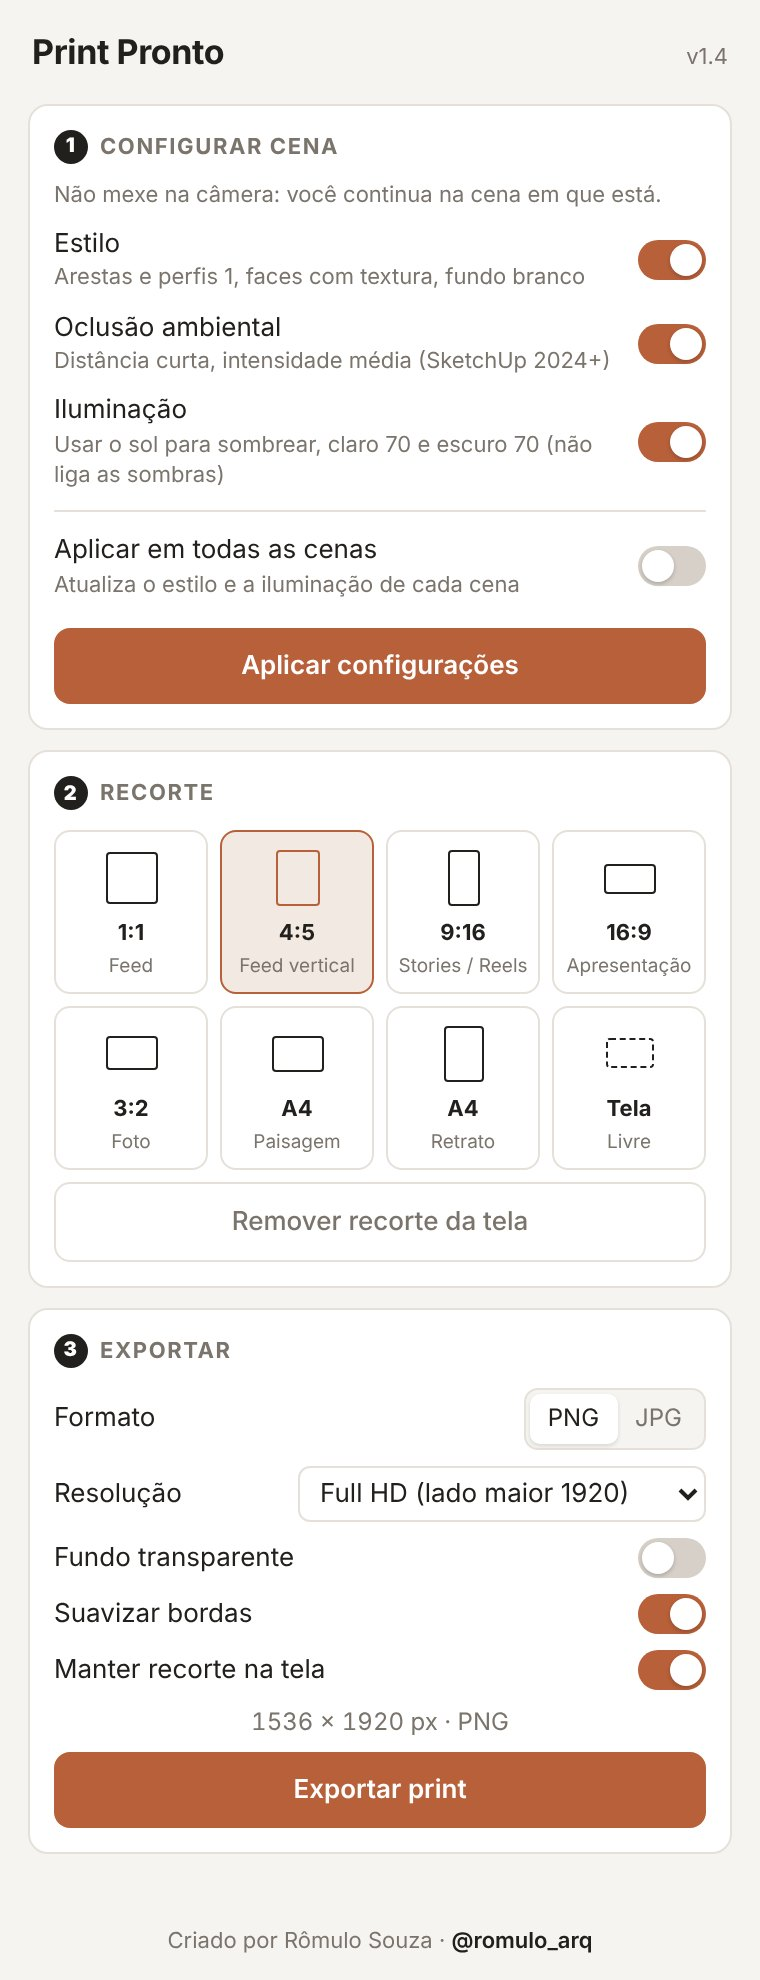
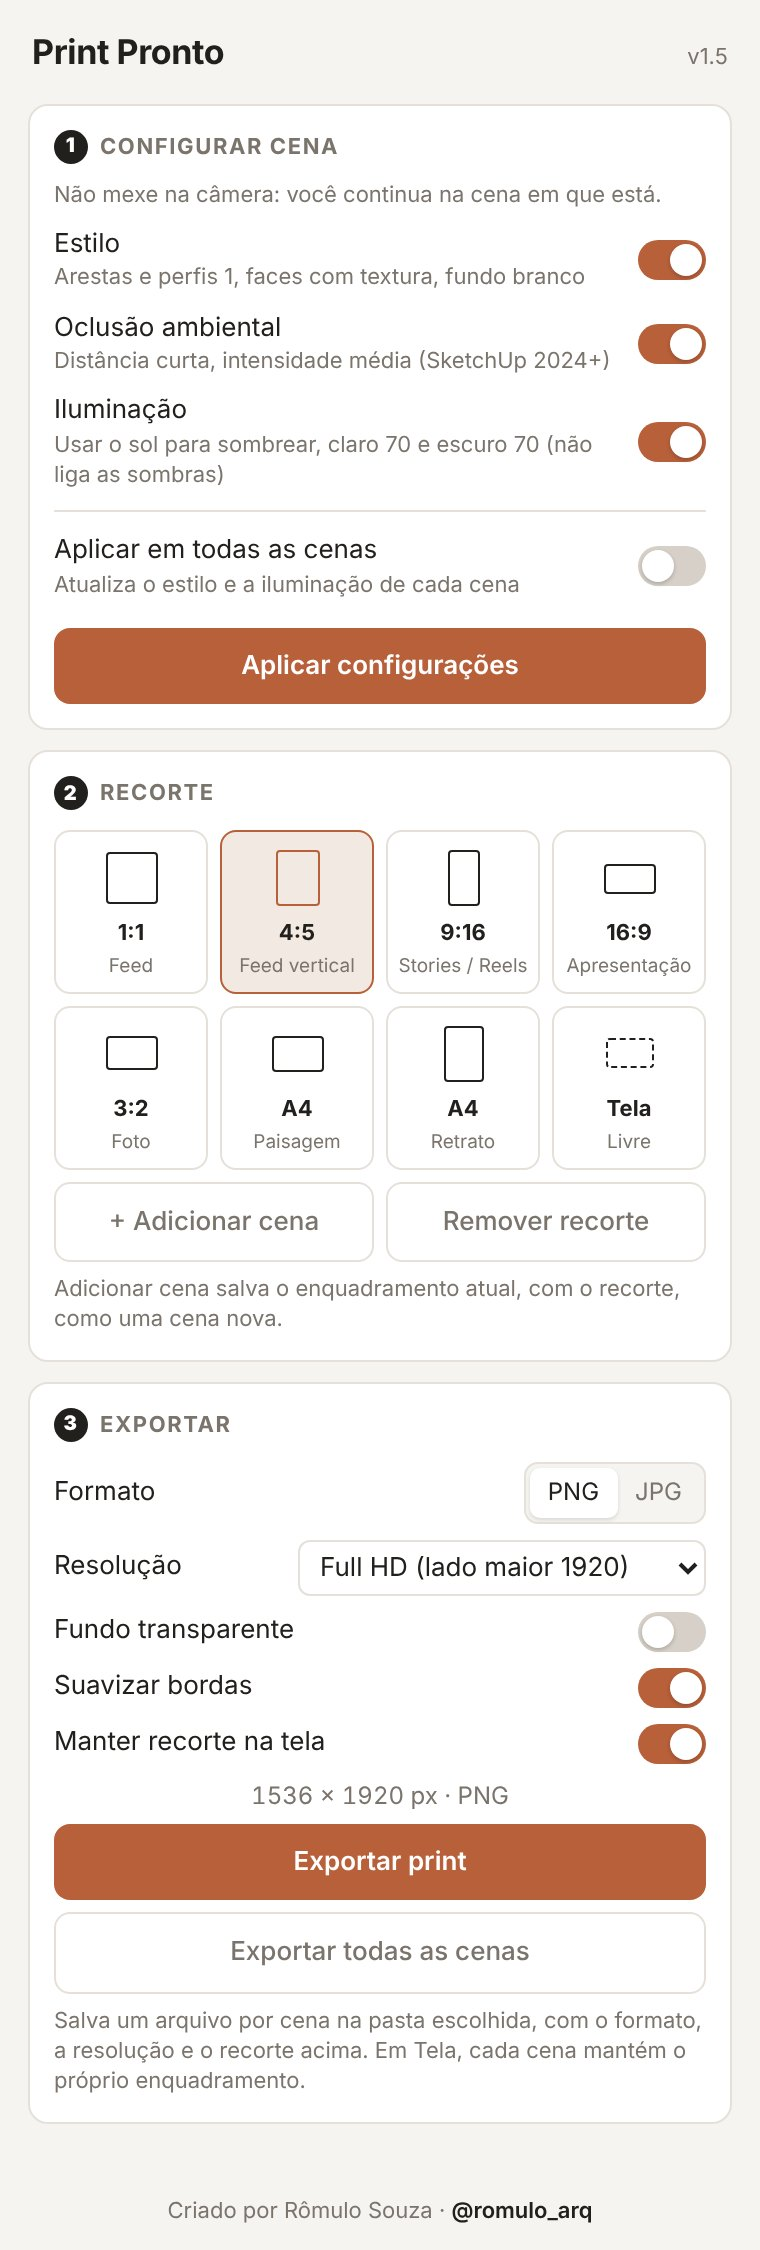
Add files via upload

diff --git a/index.html b/index.html
@@ -209,11 +209,11 @@ footer a { color: var(--accent); text-decoration: none; font-weight: 600; }
       <h1 style="margin-top:18px">O print certo para a <em>IA</em>, sem abrir cinco janelas.</h1>
       <p class="lead">Um clique deixa a cena com o estilo e a iluminação que eu uso no escritório para gerar renders com IA. Depois, você escolhe o recorte e exporta na resolução certa.</p>
       <div class="actions">
-        <a class="btn" id="baixar" href="PrintPronto_v1.4.0.rbz" download>
+        <a class="btn" id="baixar" href="PrintPronto.rbz" download>
           <svg width="18" height="18" viewBox="0 0 18 18" fill="none" aria-hidden="true"><path d="M9 2v10m0 0l-4-4m4 4l4-4M3 15h12" stroke="currentColor" stroke-width="1.8" stroke-linecap="round" stroke-linejoin="round"/></svg>
           Baixar grátis
         </a>
-        <span class="meta">v1.4 · SketchUp 2017 ou mais recente</span>
+        <span class="meta">v1.5 · SketchUp 2017 ou mais recente</span>
       </div>
       <p class="dl-status">Depois de baixar, siga os <a href="#instalar">4 passos de instalação</a>.</p>
     </div>
@@ -239,7 +239,7 @@ footer a { color: var(--accent); text-decoration: none; font-weight: 600; }
       <div class="feat">
         <div class="n">01</div>
         <h3>Configurar cena</h3>
-        <p>Aplica, com um clique, o estilo que funciona bem como base para render.</p>
+        <p>Aplica o estilo que funciona bem como base para render, na cena atual ou em todas.</p>
         <ul>
           <li>Arestas com perfis em 1, sem tracejados</li>
           <li>Faces com textura e fundo branco</li>
@@ -251,7 +251,7 @@ footer a { color: var(--accent); text-decoration: none; font-weight: 600; }
       <div class="feat">
         <div class="n">02</div>
         <h3>Recortar</h3>
-        <p>Mostra na tela a moldura do formato escolhido, para você enquadrar antes de exportar.</p>
+        <p>Mostra na tela a moldura do formato escolhido. Com um clique em Adicionar cena, o enquadramento vira uma cena nova.</p>
         <div class="chips">
           <span class="chip">1:1</span><span class="chip">4:5</span><span class="chip">9:16</span><span class="chip">16:9</span><span class="chip">3:2</span><span class="chip">A4</span><span class="chip">Livre</span>
         </div>
@@ -259,7 +259,7 @@ footer a { color: var(--accent); text-decoration: none; font-weight: 600; }
       <div class="feat">
         <div class="n">03</div>
         <h3>Exportar</h3>
-        <p>Salva o print em PNG ou JPG no tamanho certo, mostrando os pixels antes de salvar.</p>
+        <p>Salva o print em PNG ou JPG no tamanho certo, ou exporta todas as cenas de uma vez, um arquivo por cena.</p>
         <div class="chips">
           <span class="chip">1080 Instagram</span><span class="chip">Full HD</span><span class="chip">2560</span><span class="chip">4K</span><span class="chip">4615 px</span>
         </div>
@@ -271,7 +271,7 @@ footer a { color: var(--accent); text-decoration: none; font-weight: 600; }
 <section>
   <div class="wrap panel-show">
     <figure class="shot" style="margin:0">
-      <img src="painel.jpg" alt="Painel do Print Pronto com as seções Configurar cena, Recorte e Exportar" width="760" height="1980" loading="lazy">
+      <img src="painel.jpg" alt="Painel do Print Pronto com as seções Configurar cena, Recorte e Exportar" width="760" height="2250" loading="lazy">
       <figcaption>Painel do plugin dentro do SketchUp</figcaption>
     </figure>
     <div class="panel-text">
@@ -294,7 +294,7 @@ footer a { color: var(--accent); text-decoration: none; font-weight: 600; }
       <p>O arquivo vem no formato .rbz, o pacote de extensão do próprio SketchUp. Não precisa descompactar.</p>
     </div>
     <div class="steps">
-      <div class="step"><div class="n">Passo 1</div><h3>Baixe o arquivo</h3><p>Use o botão desta página e salve o <span class="path">PrintPronto_v1.4.0.rbz</span>.</p></div>
+      <div class="step"><div class="n">Passo 1</div><h3>Baixe o arquivo</h3><p>Use o botão desta página e salve o <span class="path">PrintPronto.rbz</span>.</p></div>
       <div class="step"><div class="n">Passo 2</div><h3>Abra o gerenciador</h3><p>No SketchUp, vá em <span class="path">Extensões › Gerenciador de extensões</span>.</p></div>
       <div class="step"><div class="n">Passo 3</div><h3>Instale</h3><p>Clique em <span class="path">Instalar extensão</span>, escolha o .rbz e confirme.</p></div>
       <div class="step"><div class="n">Passo 4</div><h3>Reinicie</h3><p>Feche e abra o SketchUp. A barra do Print Pronto aparece em seguida.</p></div>
